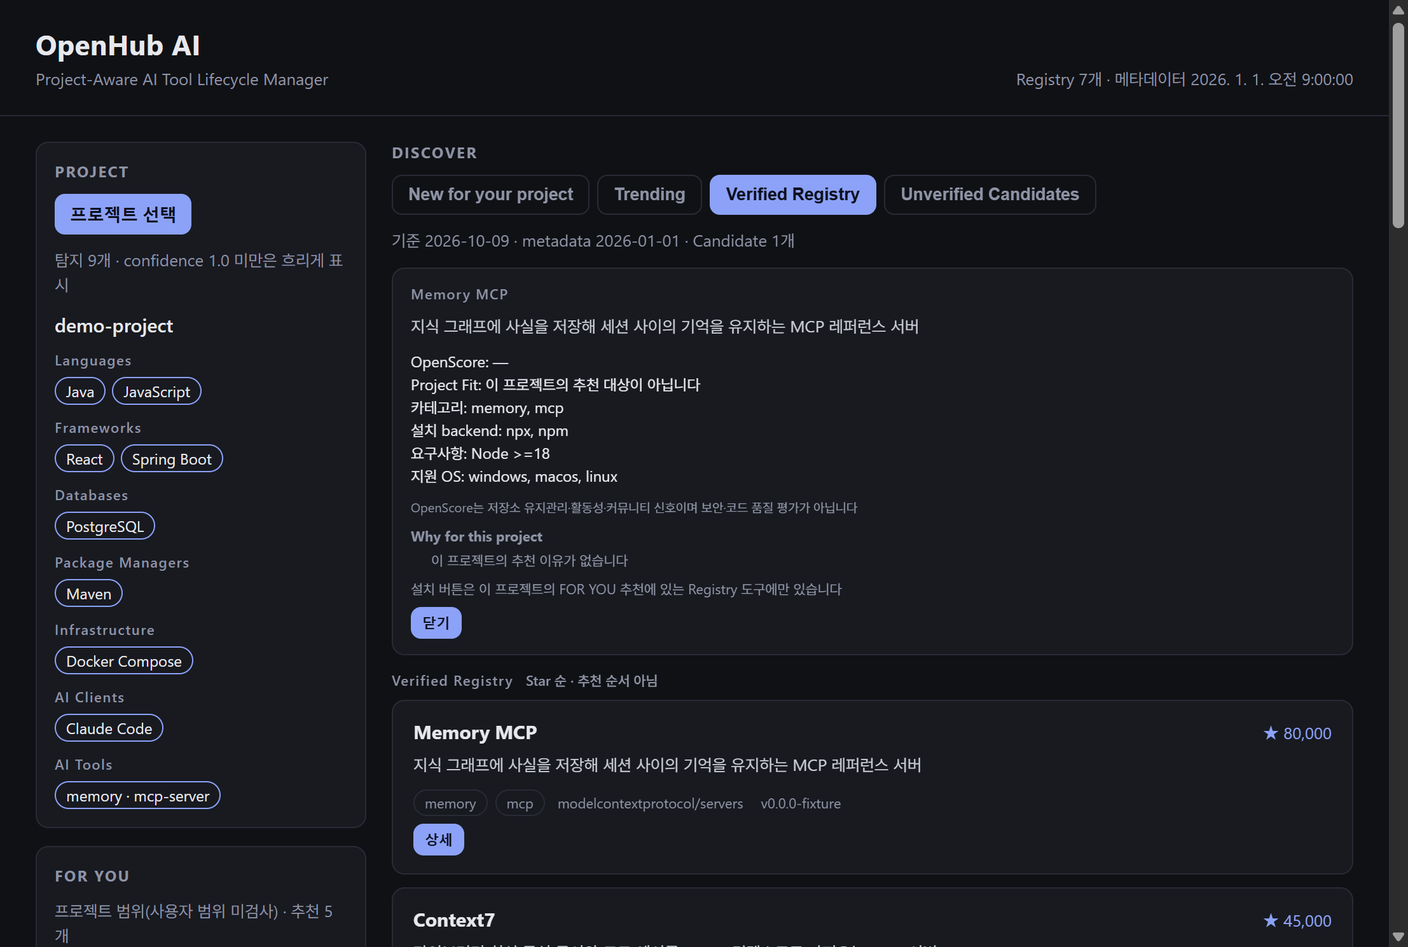
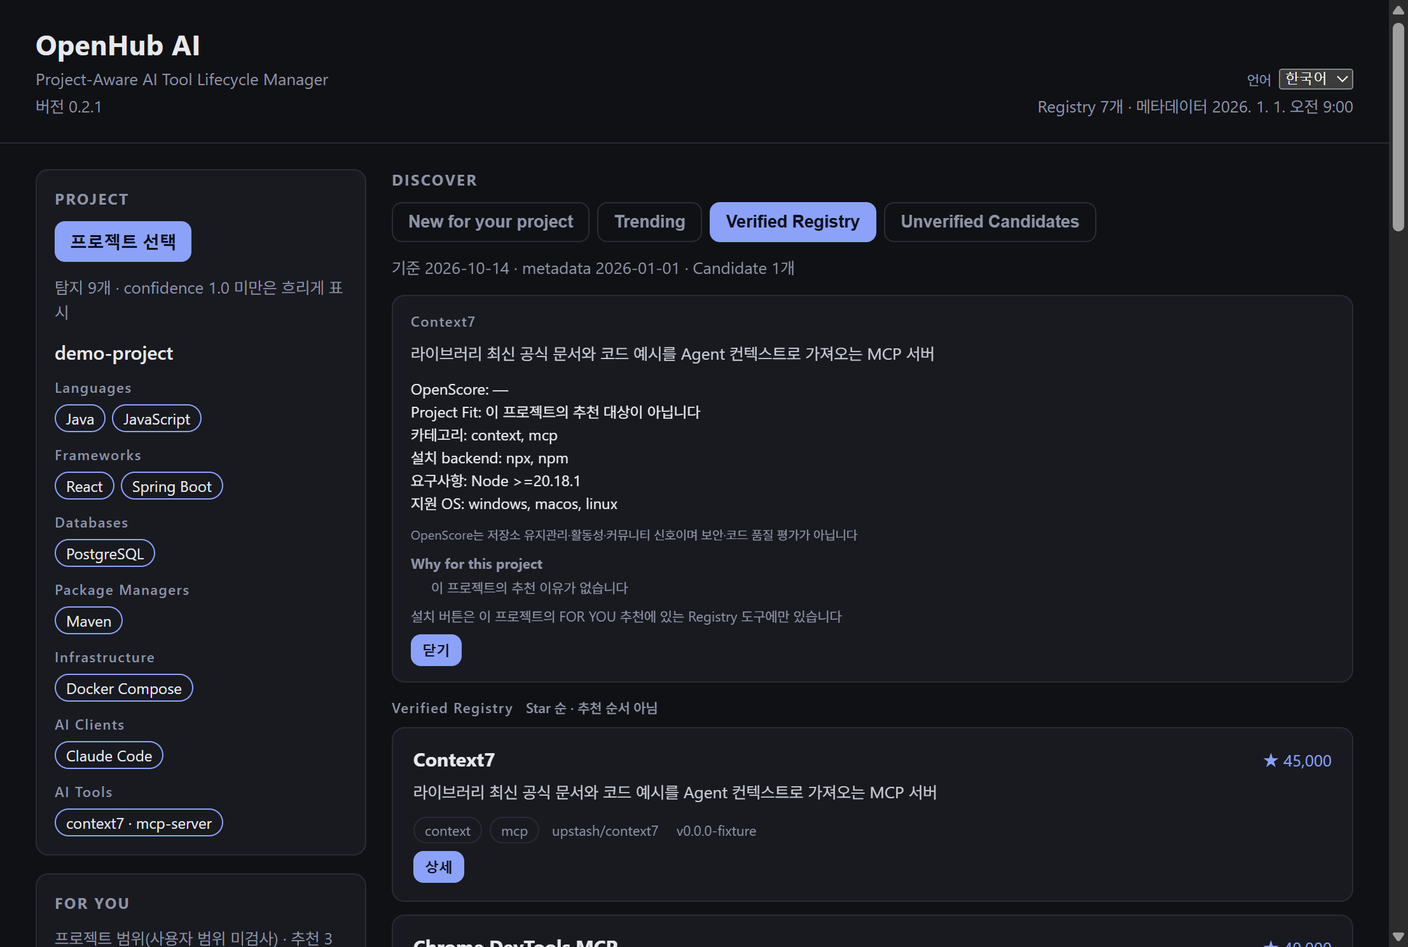
docs: describe the Memory MCP withdrawal; move the demo to Context7 (#69)
- Release notes, known issues (en/ko) and README (en/ko): Memory MCP
  new installs stopped, existing configuration, Version State and memory
  file kept, recovery still works, the client can still start it, files
  already deleted cannot be recovered. Verified Registry: 7 tools.
- The demo project's existing server is Context7 instead of Memory MCP;
  demo golden and the README screenshot are regenerated.
- Detailed backup and MEMORY_FILE_PATH guidance stays in #71.

diff --git a/scripts/demo.ts b/scripts/demo.ts
@@ -25,9 +25,9 @@ const PROBES: BackendProbeReport = {
 };
 const json = (doc: unknown) => new Response(JSON.stringify(doc), { status: 200, headers: { "content-type": "application/json" } });
 const RELEASES = [
-  { tag_name: "2025.9.25", name: "2025.9.25", body: "## What's Changed\n### Bug Fixes\n- Fixed entity dedupe\n### Features\n- Added search_nodes limit", draft: false, prerelease: false, published_at: "2025-09-25T00:00:00Z", html_url: "https://github.com/modelcontextprotocol/servers/releases/tag/2025.9.25" },
-  { tag_name: "2025.9.1", name: "2025.9.1", body: "- BREAKING: renamed open_nodes to read_nodes\n- See the migration guide", draft: false, prerelease: false, published_at: "2025-09-01T00:00:00Z", html_url: "https://github.com/modelcontextprotocol/servers/releases/tag/2025.9.1" },
-  { tag_name: "2025.8.4", name: "2025.8.4", body: "- old", draft: false, prerelease: false, published_at: "2025-08-04T00:00:00Z", html_url: "https://github.com/modelcontextprotocol/servers/releases/tag/2025.8.4" },
+  { tag_name: "v4.4.1", name: "v4.4.1", body: "## What's Changed\n### Bug Fixes\n- Fixed library id resolution\n### Features\n- Added a token limit to get-library-docs", draft: false, prerelease: false, published_at: "2025-09-25T00:00:00Z", html_url: "https://github.com/upstash/context7/releases/tag/v4.4.1" },
+  { tag_name: "v4.4.0", name: "v4.4.0", body: "- BREAKING: renamed resolve-library to resolve-library-id\n- See the migration guide", draft: false, prerelease: false, published_at: "2025-09-01T00:00:00Z", html_url: "https://github.com/upstash/context7/releases/tag/v4.4.0" },
+  { tag_name: "v4.3.0", name: "v4.3.0", body: "- old", draft: false, prerelease: false, published_at: "2025-08-04T00:00:00Z", html_url: "https://github.com/upstash/context7/releases/tag/v4.3.0" },
 ];
 
 export interface DemoResult {
@@ -50,8 +50,8 @@ export async function runDemo(): Promise<DemoResult> {
     await mkdir(home);
     const fetch = async (url: string) => {
       fetched.push(url);
-      if (url.endsWith("server-memory/latest")) return json({ name: "@modelcontextprotocol/server-memory", version: "2025.9.25", engines: { node: ">=18" } });
-      if (url.startsWith("https://api.github.com/repos/modelcontextprotocol/servers/releases")) return json(RELEASES);
+      if (url.endsWith("context7-mcp/latest")) return json({ name: "@upstash/context7-mcp", version: "4.4.1", engines: { node: ">=20.18.1" } });
+      if (url.startsWith("https://api.github.com/repos/upstash/context7/releases")) return json(RELEASES);
       return new Response("not in demo fixture", { status: 404 });
     };
     const spawner: ExecSpawner = (exe, args) => {
@@ -107,13 +107,13 @@ export async function runDemo(): Promise<DemoResult> {
     await step("2. Existing tools — 이미 설정된 MCP 서버", ["lifecycle", "status", "--project", project], null);
     await step("3. Recommend — 맞춤 추천(설치하지 않음)", ["project", "recommend", project], null);
     await step("4. Install preview — 계획을 보여 주고 데모는 승인하지 않음(실행 0)", ["install", "playwright-mcp", "--project", project, "--client", "claude-code"], { approve: null });
-    await step("5. Adopt — 기존 설정을 관리 대상으로 등록(데모가 임시 HOME에서 승인 질문에 답함, 설정 파일 변경 없음)", ["adopt", "memory-mcp", "--project", project], { approve: "memory-mcp" });
-    await step("6. Releases — 고정 release fixture", ["releases", "memory-mcp", "--project", project, "--no-token"], null);
-    await step("7. Impact — 업데이트 영향", ["impact", "memory-mcp", "--project", project, "--no-token"], null);
-    await step("8. Update preview — 계획을 보여 주고 데모는 승인하지 않음(실행 0)", ["update", "memory-mcp", "--project", project], { approve: null });
+    await step("5. Adopt — 기존 설정을 관리 대상으로 등록(데모가 임시 HOME에서 승인 질문에 답함, 설정 파일 변경 없음)", ["adopt", "context7", "--project", project], { approve: "context7" });
+    await step("6. Releases — 고정 release fixture", ["releases", "context7", "--project", project, "--no-token"], null);
+    await step("7. Impact — 업데이트 영향", ["impact", "context7", "--project", project, "--no-token"], null);
+    await step("8. Update preview — 계획을 보여 주고 데모는 승인하지 않음(실행 0)", ["update", "context7", "--project", project], { approve: null });
     await step("9. Discover — New for your project", ["discover", "--view", "new", "--project", project], null);
     await step("9. Discover — Trending", ["trending"], null);
-    await step("10. Benchmark preview — 계획을 보여 주고 데모는 승인하지 않음(실행 0)", ["benchmark", "memory-mcp", "--project", project], { approve: null });
+    await step("10. Benchmark preview — 계획을 보여 주고 데모는 승인하지 않음(실행 0)", ["benchmark", "context7", "--project", project], { approve: null });
     lines.push("", "== 요약", "가짜 fetch 응답 " + fetched.length + "회(실제 네트워크 0) · 프로세스 실행 " + spawned.length + "회");
     return { lines, fetched, spawned };
   } finally {

diff --git a/test/release-notes-v0.2.1.test.ts b/test/release-notes-v0.2.1.test.ts
@@ -51,6 +51,24 @@ describe("v0.2.1 Release Notes", () => {
     for (const part of ["also when a custom Registry still contains it", "An existing Serena entry and its Version State are kept and shown as withdrawn", "an interrupted operation can still be recovered"]) expect(notes).toContain(part);
   });
 
+  it("Memory MCP는 Registry에 없고 지원 중단 목록·Issue #69와 일치하며, npm 패키지 식별·기존 데이터 보존·Client 실행 한계를 적는다", async () => {
+    const { entries } = await loadRegistry(path.join(ROOT, "registry"));
+    expect(entries.map((e) => e.manifest.name)).not.toContain("memory-mcp");
+    const memory = WITHDRAWN_TOOLS.find((t) => t.toolId === "memory-mcp")!;
+    expect(memory.since).toBe("0.2.1");
+    expect(memory.identity.npmPackages).toEqual(["@modelcontextprotocol/server-memory"]);
+    expect(memory.identity.repositories).toEqual([]);
+    expect(notes).toContain("**Memory MCP: new installs stopped.**");
+    expect(notes).toContain("(" + memory.issue + ")");
+    for (const part of ["also when a custom Registry installs the same npm package (`" + memory.identity.npmPackages[0] + "`)", "Other servers from the same GitHub repository are not affected", "the memory file are not changed, moved or deleted", "an interrupted operation can still be recovered", "OpenHub does not control that start", "cannot be recovered by OpenHub"]) expect(notes).toContain(part);
+    for (const doc of [knownEn, knownKo]) {
+      expect(doc).toContain(memory.issue);
+      expect(doc).toContain("openhub lifecycle recover memory-mcp");
+    }
+    expect(knownEn).toContain("## Memory MCP: no new installs");
+    expect(knownKo).toContain("## Memory MCP 신규 설치 불가");
+  });
+
   it("Kubernetes MCP Server Client 검증 표의 각 칸이 Core 기록과 같다", () => {
     for (const client of TOOL_CONFIG_CLIENTS) {
       const cells = (["windows", "linux", "macos"] as const).map((os) => {

diff --git a/test/docs.test.ts b/test/docs.test.ts
@@ -92,7 +92,7 @@ describe("REQ-062 TASK-073 문서·demo·최종 회귀", () => {
     const b = await runDemo();
     expect(a.lines).toEqual(b.lines);
     expect(a.spawned).toEqual([]);
-    expect(a.fetched.every((u) => u.startsWith("https://registry.npmjs.org/") || u.startsWith("https://api.github.com/repos/modelcontextprotocol/servers/releases"))).toBe(true);
+    expect(a.fetched.every((u) => u.startsWith("https://registry.npmjs.org/") || u.startsWith("https://api.github.com/repos/upstash/context7/releases"))).toBe(true);
     const text = a.lines.join("\n") + "\n";
     const steps = ["1. Analyze", "2. Existing tools", "3. Recommend", "4. Install preview", "5. Adopt", "6. Releases", "7. Impact", "8. Update preview", "9. Discover", "10. Benchmark preview"];
     let at = -1;

diff --git a/docs/release-notes/v0.2.1.md b/docs/release-notes/v0.2.1.md
@@ -1,6 +1,6 @@
 # OpenHub AI v0.2.1
 
-OpenHub AI v0.2.1 is a reliability and safety release. It does not add new tools. It makes interrupted operations recoverable, lets only one change run at a time, prepares Python tools before they are configured, limits what MCP servers see from your environment during checks, and stops new installs of Serena. The Verified Registry has **8 tools**. Nothing is installed or changed without a plan you approve, as before.
+OpenHub AI v0.2.1 is a reliability and safety release. It does not add new tools. It makes interrupted operations recoverable, lets only one change run at a time, prepares Python tools before they are configured, limits what MCP servers see from your environment during checks, and stops new installs of Serena and Memory MCP. The Verified Registry has **7 tools**. Nothing is installed or changed without a plan you approve, as before.
 
 ## Recovery and safe concurrent use
 
@@ -18,6 +18,11 @@ OpenHub AI v0.2.1 is a reliability and safety release. It does not add new tools
 - **Postgres MCP Pro** is pinned to `postgres-mcp==0.3.0` with `mcp==1.30.0`. This fixes the v0.2.0 failure on a new machine, where the server could not start with the MCP SDK 2.x.
 - **Serena: new installs stopped.** Serena needs a dependency (`proxy-tools`) that is only published as source code, and OpenHub cannot verify that build. Serena was removed from the Verified Registry. Install, update, rollback, Health, repair, adopt and benchmark refuse it with the reason, also when a custom Registry still contains it. An existing Serena entry and its Version State are kept and shown as withdrawn, an interrupted operation can still be recovered, and the README describes manual removal. Bringing Serena back is tracked in [#59](https://github.com/kanghyunsoon/openhub-ai/issues/59).
 
+## Memory MCP
+
+- **Memory MCP: new installs stopped.** By default Memory MCP keeps its memories in `memory.jsonl` inside the package folder of the npx cache. We reproduced two ways to lose access to them: a new upstream version under the unpinned command replaces that folder and deletes the file, and an update or rollback to another version starts the server from a different folder without the earlier memories. OpenHub cannot manage the tool without risking your data, so Memory MCP was removed from the Verified Registry. Install, update, rollback, Health, repair, adopt and benchmark refuse it with the reason, also when a custom Registry installs the same npm package (`@modelcontextprotocol/server-memory`) under another name. Other servers from the same GitHub repository are not affected.
+- **Existing Memory MCP users.** Your client configuration, the Version State and the memory file are not changed, moved or deleted; the entry is shown as withdrawn, and an interrupted operation can still be recovered. Your client (Claude Code, Codex, Cursor) can still start Memory MCP from its configuration: OpenHub does not control that start. Back up `memory.jsonl` before the client's next start. A memory file that was already deleted cannot be recovered by OpenHub. A stable storage path and an approved copy of existing memories are tracked in [#69](https://github.com/kanghyunsoon/openhub-ai/issues/69).
+
 ## Environment passed to MCP servers during checks
 
 - Health checks and benchmarks now start MCP servers with an allowlisted environment: operating system and path variables, proxy and CA settings, the backend's own settings without their credentials, and only the variables the tool declares. Other variables in your environment, such as API keys and tokens, are not passed. Environment variables that change which code runs (for example `NODE_OPTIONS` or `PYTHONPATH`) are never passed.
@@ -31,6 +36,7 @@ OpenHub AI v0.2.1 is a reliability and safety release. It does not add new tools
 
 - No breaking changes to CLI commands, client configuration files or the install and lifecycle plan formats. Settings and Version State from v0.2.0 remain valid; the desktop app and the CLI still read them.
 - **Serena:** see above. Your existing Serena configuration is not changed or deleted.
+- **Memory MCP:** see above. Your existing Memory MCP configuration and memory file are not changed or deleted.
 - **Health environment:** a tool that only passed its Health check because it read an undeclared variable from your environment may now fail Health. How your client starts the server is not changed by this.
 - **Custom Registries with uvx tools:** some uvx commands that v0.2.0 accepted are refused with `MANIFEST_COMMAND_REJECTED`, for two different reasons:
   - The package cannot be identified from the Manifest: URLs, paths, VCS sources, wheel or archive files, `--with-editable`, `--with-requirements`, and options that `uvx --help` in uv 0.12.3 does not list.
@@ -40,7 +46,7 @@ OpenHub AI v0.2.1 is a reliability and safety release. It does not add new tools
 
 - **Remaining limits of the environment allowlist.** It is not a sandbox: a server started by OpenHub still runs as your user and can read your files and use the network. The package source used when a tool was prepared is not permanently linked to later Health checks; the contents of `uv.toml` and `.npmrc` are not part of the approved plan; credentials hidden in a URL path cannot be detected. npm's own `node-options` setting (in `.npmrc`, or `npm_config_node_options` during npx Prepare) can still add Node.js options to the processes npm starts; OpenHub does not read it ([#63](https://github.com/kanghyunsoon/openhub-ai/issues/63)). When your client (Claude Code, Codex, Cursor) starts the server, the client decides the environment, not OpenHub.
 - **Postgres MCP Pro on Windows:** in our measurement the first Health check after install took about 15 seconds of the 20 second limit (Linux: about 3 seconds). A slower machine or network may hit the limit; run the Health check again. Update and rollback to another version need that version's own startup time; an older version that starts too slowly fails Health and the previous configuration is restored.
-- **Installing is not the same as a verified start.** Per-client start verification exists for **Kubernetes MCP Server only**; the other 7 tools have no per-client run record. The install plan shows the level for each client and operating system.
+- **Installing is not the same as a verified start.** Per-client start verification exists for **Kubernetes MCP Server only**; the other 6 tools have no per-client run record. The install plan shows the level for each client and operating system.
 
   Kubernetes MCP Server, started by the real client from the configuration OpenHub wrote:
 
@@ -54,7 +60,7 @@ OpenHub AI v0.2.1 is a reliability and safety release. It does not add new tools
 - **Claude Code:** project scope only; OpenHub does not write the Claude Code user configuration.
 - **macOS:** no official artifact and nothing is verified on macOS (platform-unverified). Building from source is not blocked.
 - **Kubernetes MCP Server:** only version 0.0.67 is allowed. Other versions are blocked until reviewed.
-- **Verified Registry size:** 8 tools. The earlier target of 25–40 verified tools is **not met** and stays carried over; unverified tools are not added to reach a number.
+- **Verified Registry size:** 7 tools. The earlier target of 25–40 verified tools is **not met** and stays carried over; unverified tools are not added to reach a number.
 - **Windows installer:** the NSIS installer has no code signature. How Windows SmartScreen or Smart App Control reacts to it has **not been observed**; a warning may appear.
 - **Linux AppImage:** release testing on CI runners without FUSE extracts the AppImage (`--appimage-extract`) and starts the extracted app. Starting the AppImage file directly through FUSE is not part of release testing.
 

diff --git a/docs/known-issues-v0.2.1.md b/docs/known-issues-v0.2.1.md
@@ -7,6 +7,7 @@ v0.2.1 is **not released yet**. This page describes the limits of the code on ma
 | Issue | Status | What you can do |
 | --- | --- | --- |
 | Serena: no new installs | By design in v0.2.1; re-support tracked in #59 | Keep or remove your existing entry; recovery still works |
+| Memory MCP: no new installs | By design in v0.2.1; storage fix tracked in #69 | Back up `memory.jsonl` before your client starts it again; recovery still works |
 | Postgres MCP Pro: first Health on Windows is close to the time limit | Not fixed; measured about 15 s of 20 s | Run Health again |
 | Recovery of interrupted operations is CLI only | By design in v0.2.1 | Run the command the Installed view shows |
 | Environment limits during Health and benchmark are not a sandbox | Known limit | See below |
@@ -24,6 +25,14 @@ v0.2.1 is **not released yet**. This page describes the limits of the code on ma
 - **Interrupted Serena operation:** `openhub lifecycle recover serena` still works; it does not need the Registry entry.
 - **Removing it:** follow the manual removal steps in the README (back up the client configuration file first).
 - **Status:** re-support is tracked in [#59](https://github.com/kanghyunsoon/openhub-ai/issues/59). A Windows Prepare failure seen once in six tries during earlier Serena testing was never explained; it is not a v0.2.1 path any more.
+
+## Memory MCP: no new installs
+
+- **What happens:** Memory MCP stores memories in `memory.jsonl` inside its package folder in the npx cache unless `MEMORY_FILE_PATH` is set. A new upstream version under the unpinned command replaces that folder and deletes the file, and an update or rollback to another version starts the server without the earlier memories (both reproduced). Memory MCP was removed from the Verified Registry. Install, update, rollback, Health, repair, adopt and benchmark refuse it with this reason, also when a custom Registry or a Manifest with another name installs the npm package `@modelcontextprotocol/server-memory`. Other servers from the shared `modelcontextprotocol/servers` repository are not affected.
+- **If you already use Memory MCP:** your client configuration, Version State and memory file are not changed, moved or deleted. `openhub lifecycle status` shows the entry as withdrawn with a link to #69. OpenHub does not start the server any more, but your client can, and OpenHub does not control that. Back up `memory.jsonl` before the next start. A file that was already deleted cannot be recovered by OpenHub.
+- **Interrupted Memory MCP operation:** `openhub lifecycle recover memory-mcp` still works; it does not need the Registry entry.
+- **Removing it:** follow the manual removal steps in the README (back up the client configuration file first). Removing the client entry does not delete the memory file.
+- **Status:** a stable storage path outside the npm cache and an approved copy of existing memories are tracked in [#69](https://github.com/kanghyunsoon/openhub-ai/issues/69).
 
 ## Postgres MCP Pro: first Health on Windows
 
@@ -78,4 +87,4 @@ See the [security model](security-model.md).
 - Kubernetes MCP Server is limited to version 0.0.67.
 - The Windows installer is unsigned; how SmartScreen or Smart App Control reacts has not been observed.
 - The Linux AppImage is tested by extracting it; starting it directly through FUSE is not tested.
-- The Verified Registry has 8 tools; the earlier 25–40 target is carried over.
+- The Verified Registry has 7 tools; the earlier 25–40 target is carried over.

diff --git a/README.ko.md b/README.ko.md
@@ -32,7 +32,7 @@ sha256sum -c SHA256SUMS --ignore-missing
 
 | 설치할 도구 | 필요한 프로그램 | 확인 방법 |
 | --- | --- | --- |
-| Memory MCP, Context7, Playwright MCP, Chrome DevTools MCP, MongoDB MCP Server, Kubernetes MCP Server | [Node.js](https://nodejs.org/)(npm·npx 포함) | `npx --version` |
+| Context7, Playwright MCP, Chrome DevTools MCP, MongoDB MCP Server, Kubernetes MCP Server(Memory MCP는 v0.2.0만, 아래 참고) | [Node.js](https://nodejs.org/)(npm·npx 포함) | `npx --version` |
 | Postgres MCP Pro(Serena는 v0.2.0만, 아래 참고) | [uv](https://docs.astral.sh/uv/)(uvx 포함) | `uvx --version` |
 | GitHub MCP Server(uv가 없을 때 Postgres MCP Pro) | [Docker](https://docs.docker.com/get-docker/), 실행 중 | `docker info` |
 
@@ -125,6 +125,7 @@ Pinokio 지원은 pterm 0.0.25 기준입니다. 기본 테스트는 가짜 pinok
 | Health·Benchmark가 MCP 서버에 넘기는 환경 | 내 환경 전체 | OS·경로 변수, 프록시·CA, backend 자체 설정, 도구가 선언한 변수만. 환경변수의 패키지 index·registry 설정을 그대로 넘길 수 없으면(예: 인증 정보가 든 URL) Health·Benchmark를 실행하지 않습니다. 그런 설정은 `uv.toml`·`.npmrc`에 두세요([보안 모델](docs/security-model.md)) |
 | Windows에서 Postgres MCP Pro 첫 실행 | Health 시간 제한에 걸릴 수 있음 | 정확한 버전(`postgres-mcp==0.3.0`, `mcp==1.30.0`, wheel만)을 설정 쓰기 전에 준비하고, Client도 `--no-build`로 실행합니다 |
 | Serena | 설치 가능. Client가 첫 실행 때 의존성(`proxy-tools`)을 소스에서 빌드 | **새 설치·업데이트·롤백·Health·repair·편입(adopt)·Benchmark를 하지 않습니다**: 그 빌드를 검증할 수 없습니다. 기존 Serena 항목과 Version State는 그대로 두고 지원 중단으로 표시하며, 중단된 작업은 복구할 수 있습니다. 원하면 [수동 제거 절차](#도구와-openhub-제거)로 지우세요. 재지원: [#59](https://github.com/kanghyunsoon/openhub-ai/issues/59) |
+| Memory MCP | 설치 가능. 기본적으로 기억을 npx cache 안의 `memory.jsonl`에 저장 | **새 설치·업데이트·롤백·Health·repair·편입(adopt)·Benchmark를 하지 않습니다**: 새 버전이 나오면 그 파일이 지워지고, 다른 버전은 이전 기억 없이 시작합니다. 기존 항목, Version State, 기억 파일은 그대로 두고 지원 중단으로 표시하며, 중단된 작업은 복구할 수 있습니다. Client는 계속 실행할 수 있으니 먼저 `memory.jsonl`을 백업하세요([알려진 문제](docs/known-issues-v0.2.1.ko.md)). 저장 경로 해결: [#69](https://github.com/kanghyunsoon/openhub-ai/issues/69) |
 
 ## 데모
 

diff --git a/README.md b/README.md
@@ -32,7 +32,7 @@ The app itself needs nothing else. Each MCP server, however, is started by a pro
 
 | To install | You need | Check with |
 | --- | --- | --- |
-| Memory MCP, Context7, Playwright MCP, Chrome DevTools MCP, MongoDB MCP Server, Kubernetes MCP Server | [Node.js](https://nodejs.org/) (includes npm and npx) | `npx --version` |
+| Context7, Playwright MCP, Chrome DevTools MCP, MongoDB MCP Server, Kubernetes MCP Server (and Memory MCP in v0.2.0 only, see below) | [Node.js](https://nodejs.org/) (includes npm and npx) | `npx --version` |
 | Postgres MCP Pro (and Serena in v0.2.0 only, see below) | [uv](https://docs.astral.sh/uv/) (provides uvx) | `uvx --version` |
 | GitHub MCP Server (and Postgres MCP Pro if uv is missing) | [Docker](https://docs.docker.com/get-docker/), running | `docker info` |
 
@@ -125,6 +125,7 @@ The download is v0.2.0. This README also describes the code on `main`, which is 
 | Environment passed to MCP servers during Health and Benchmark | Your whole environment | Only OS and path variables, proxy/CA and the backend's own settings, and the variables the tool declares. If a package index or registry setting in your environment cannot be passed as-is (for example a URL with credentials), Health and Benchmark do not run; put it in `uv.toml` or `.npmrc` instead ([security model](docs/security-model.md)) |
 | First start of Postgres MCP Pro on Windows | Can hit the Health time limit | The exact version (`postgres-mcp==0.3.0`, `mcp==1.30.0`, wheels only) is prepared before the configuration is written; the client also runs it with `--no-build` |
 | Serena | Installable; the client builds a dependency (`proxy-tools`) from source on first start | **No new installs, updates, rollback, Health, repair, adopt or Benchmark**: that build cannot be verified. An existing Serena entry and its Version State are kept and shown as withdrawn; an interrupted operation can still be recovered; remove it with [the manual steps](#removing-a-tool-or-openhub) if you want. Re-support: [#59](https://github.com/kanghyunsoon/openhub-ai/issues/59) |
+| Memory MCP | Installable; memories are stored in `memory.jsonl` inside the npx cache by default | **No new installs, updates, rollback, Health, repair, adopt or Benchmark**: a new upstream version deletes that file, and another version starts without the earlier memories. An existing entry, its Version State and the memory file are kept and shown as withdrawn; an interrupted operation can still be recovered. Your client can still start it, so back up `memory.jsonl` first ([known issues](docs/known-issues-v0.2.1.md)). Storage fix: [#69](https://github.com/kanghyunsoon/openhub-ai/issues/69) |
 
 ## Demo
 
